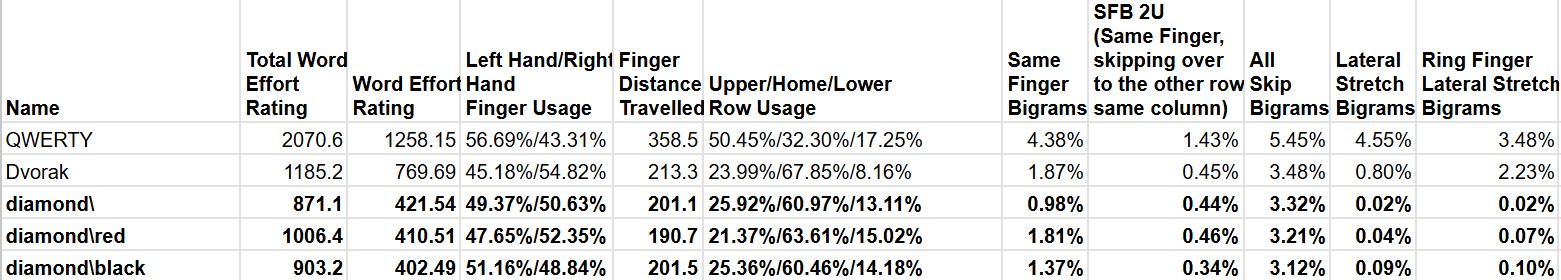
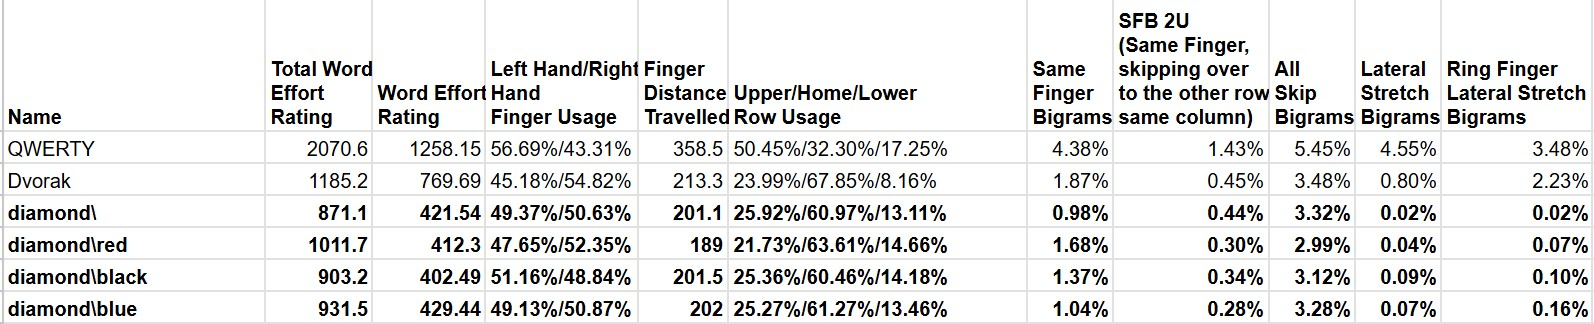
added diamond\blue, and fixed typos and renamed diamond_backslash files to diamond_backslash_original

diff --git a/proof_of_concepts/diamond_backslash_blue/description.md b/proof_of_concepts/diamond_backslash_blue/description.md
@@ -1,0 +1,16 @@
+# diamond\red mirroring keyboard layout kbd file
+
+The kanata.kbd file is being used as a proof of concept to demonstrate
+how the diamond\red mirroring keyboard layout works.
+
+More details including bugs are in the kanata.kbd file.
+
+The kanata.kbd file is used with Kanata, see Kanata repo source for how Kanata works: https://github.com/jtroo/kanata
+
+## layout image
+
+![image of diamond\\red keyboard layout](https://raw.githubusercontent.com/r134x7/diamond_backslash/refs/heads/main/images/diamond_backslash_red.png)
+
+## heatmap
+
+![image of diamond\\red keyboard layout heatmap](https://raw.githubusercontent.com/r134x7/diamond_backslash/refs/heads/main/images/diamond_backslash_red_heatmap.jpg)
